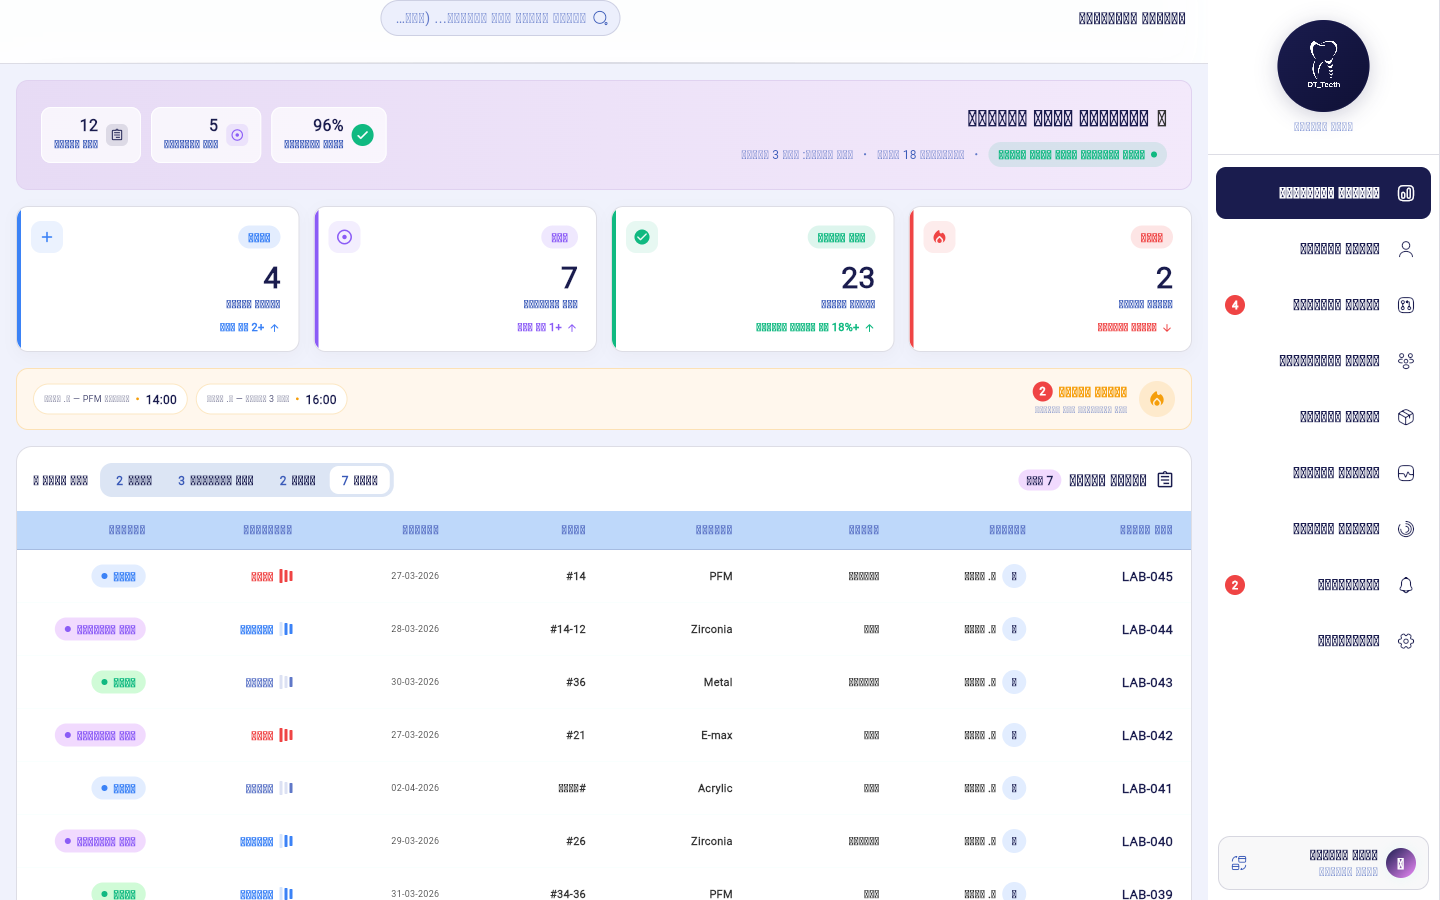
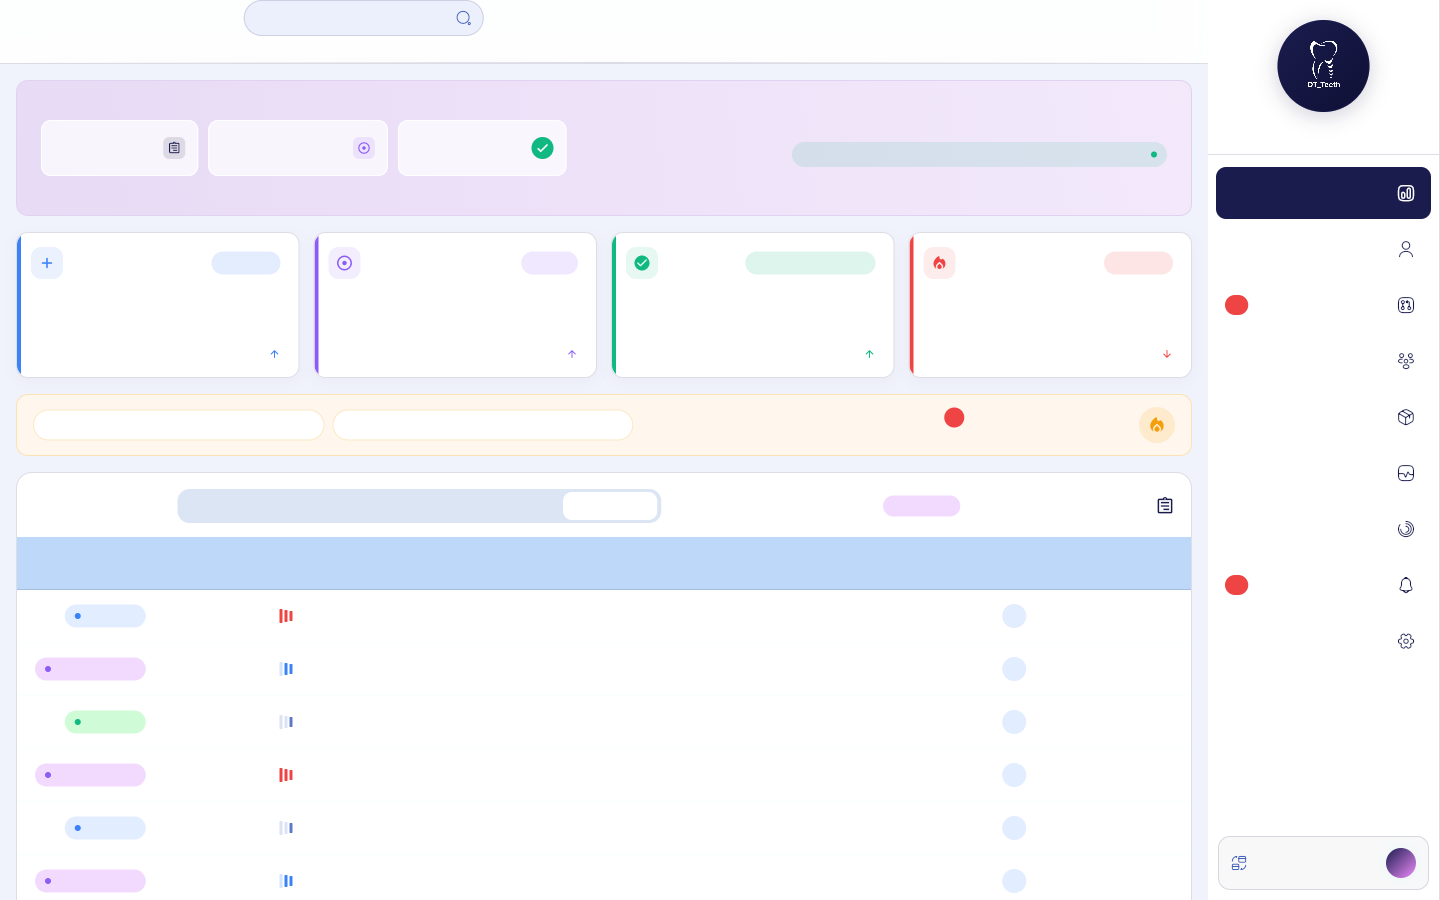
تنظيف مقاييس المدير: استبدال "نسبة الإنجاز" بعدد الطلبات الموصلة للطبيب في الواجهة الرئيسية، واستبدال مقاييس الوقت (وقت التنفيذ/الإنجاز بالوقت) في الملف الشخصي بعدادات طلبات — المدير يشرف على التسليم ولا يعمل الطلبات بيده

diff --git a/lib/features/profile/presentation/widgets/employee_profile_content.dart b/lib/features/profile/presentation/widgets/employee_profile_content.dart
@@ -34,6 +34,7 @@ import '../../domain/entities/employee_profile.dart';
 import '../../../../core/constants/app_urls.dart';
 import '../../../../core/utils/app_date.dart';
 import '../../../../shared/widgets/feedback/glass_toast.dart';
+import '../../../../shared/widgets/loading/app_shimmer_card.dart';
 import '../bloc/profile_cubit.dart';
 
 // ══════════════════════════════════════════════════════════════════════════
@@ -373,12 +374,15 @@ class _EmployeeProfileContentState extends State<EmployeeProfileContent> {
         // نعرض المحتوى فوراً ببيانات placeholder (_data) ونُحدّثه لمّا يرجع
         // الباك عبر الـ listener — بدون حجب الصفحة بـ spinner لانهائي لو
         // تأخّر/فشل طلب showProfile (شائع على الويب بسبب CORS).
-        return _buildContent(context);
+        return _buildContent(
+          context,
+          loading: state.status == ProfileStatus.loading,
+        );
       },
     );
   }
 
-  Widget _buildContent(BuildContext context) {
+  Widget _buildContent(BuildContext context, {required bool loading}) {
     return LayoutBuilder(builder: (context, c) {
       final isWide = c.maxWidth >= 900;
 
@@ -397,6 +401,7 @@ class _EmployeeProfileContentState extends State<EmployeeProfileContent> {
       final main = _MainColumn(
         data: _current,
         editing: _editing,
+        loading: loading,
       );
 
       if (isWide) {
@@ -977,10 +982,15 @@ class _MainColumn extends StatelessWidget {
   const _MainColumn({
     required this.data,
     required this.editing,
+    this.loading = false,
   });
 
   final _EmployeeData data;
   final bool editing;
+
+  /// هل ما زال طلب showProfile قيد التحميل؟ (تظهر shimmer placeholders
+  /// مكان أقسام الباك بدل ما تنطّ فجأة لاحقاً).
+  final bool loading;
 
   @override
   Widget build(BuildContext context) {
@@ -1039,6 +1049,16 @@ class _MainColumn extends StatelessWidget {
           ],
         ),
         // ── أقسام حقيقية من الباك (showProfile) ──────────────────────────
+        // أثناء التحميل: shimmer placeholders مكان الأقسام القادمة من الباك
+        // (الشهادات/الخبرات/الدورات/المهارات) بدل ما تظهر فجأة بعد الرد.
+        if (loading) ...[
+          const SizedBox(height: 18),
+          const AppShimmerCard(height: 140),
+          const SizedBox(height: 18),
+          const AppShimmerCard(height: 140),
+          const SizedBox(height: 18),
+          const AppShimmerCard(height: 100),
+        ],
         if (data.educations.isNotEmpty) ...[
           const SizedBox(height: 18),
           _RelationSection(
@@ -1415,8 +1435,9 @@ class _StatsRow extends StatelessWidget {
 
   @override
   Widget build(BuildContext context) {
-    // الترتيب في RTL: أول عنصر = أقصى اليمين. لمطابقة الموك أب
-    // (96% أقصى اليسار، 142 أقصى اليمين) نضع 142 أولاً ثم 2.4 ثم 96.
+    // قرار الفريق 2026-06-12: لا ساعات ولا "وقت تنفيذ" بملف المدير —
+    // المقاييس الزمنية تُستبدل بعدادات طلبات (مثل الواجهة الرئيسية).
+    // الترتيب في RTL: أول عنصر = أقصى اليمين.
     final stats = [
       _StatSpec(
         value: '142',
@@ -1428,20 +1449,20 @@ class _StatsRow extends StatelessWidget {
         bg: AppColors.statusSuccessBg,
       ),
       _StatSpec(
-        value: '2.4',
-        unit: 'س',
-        label: context.l10n.profileStatExecTime,
-        badge: context.l10n.profileBadgeAverage,
-        icon: Icons.schedule_rounded,
+        value: '5',
+        unit: '',
+        label: context.l10n.labHeroStatInProgress,
+        badge: context.l10n.labChipActive,
+        icon: Icons.adjust_rounded,
         accent: AppColors.statusProgress,
         bg: const Color(0xFFF4ECFB),
       ),
       _StatSpec(
-        value: '96',
-        unit: '%',
-        label: context.l10n.profileStatOnTime,
-        badge: '2%+',
-        icon: Icons.star_border_rounded,
+        value: '7',
+        unit: '',
+        label: context.l10n.labStatReadyOrders,
+        badge: context.l10n.profileBadgeThisMonth,
+        icon: Icons.inventory_2_outlined,
         accent: const Color(0xFF2E48B5),
         bg: const Color(0xFFEFF3FD),
       ),
@@ -2011,94 +2032,6 @@ class _FieldPillState extends State<_FieldPill> {
             ),
           ),
         ],
-      ),
-    );
-  }
-}
-
-// ══════════════════════════════════════════════════════════════════════════
-//                       حالات التحميل / الخطأ (الربط بالباك)
-// ══════════════════════════════════════════════════════════════════════════
-
-class _ProfileCenterLoader extends StatelessWidget {
-  const _ProfileCenterLoader();
-
-  @override
-  Widget build(BuildContext context) {
-    return const Center(
-      child: Padding(
-        padding: EdgeInsets.all(40),
-        child: SizedBox(
-          width: 34,
-          height: 34,
-          child: CircularProgressIndicator(
-            strokeWidth: 3,
-            valueColor: AlwaysStoppedAnimation(_Palette.accent),
-          ),
-        ),
-      ),
-    );
-  }
-}
-
-class _ProfileCenterError extends StatelessWidget {
-  const _ProfileCenterError({required this.message, required this.onRetry});
-
-  final String? message;
-  final VoidCallback onRetry;
-
-  @override
-  Widget build(BuildContext context) {
-    return Center(
-      child: Padding(
-        padding: const EdgeInsets.all(32),
-        child: Column(
-          mainAxisSize: MainAxisSize.min,
-          children: [
-            const Icon(Icons.cloud_off_rounded,
-                size: 44, color: AppColors.lightText4),
-            const SizedBox(height: 12),
-            Text(
-              message ?? context.l10n.profileLoadError,
-              textAlign: TextAlign.center,
-              style: const TextStyle(
-                fontFamily: AppTextStyles.fontFamily,
-                fontSize: 14,
-                fontWeight: FontWeight.w700,
-                color: AppColors.lightText2,
-              ),
-            ),
-            const SizedBox(height: 16),
-            InkWell(
-              onTap: onRetry,
-              borderRadius: BorderRadius.circular(AppSizes.radiusSM),
-              child: Container(
-                padding:
-                    const EdgeInsets.symmetric(horizontal: 18, vertical: 10),
-                decoration: BoxDecoration(
-                  color: _Palette.accent,
-                  borderRadius: BorderRadius.circular(AppSizes.radiusSM),
-                ),
-                child: Row(
-                  mainAxisSize: MainAxisSize.min,
-                  children: [
-                    const Icon(Icons.refresh_rounded, size: 16, color: Colors.white),
-                    const SizedBox(width: 6),
-                    Text(
-                      context.l10n.retry,
-                      style: const TextStyle(
-                        fontFamily: AppTextStyles.fontFamily,
-                        fontSize: 13,
-                        fontWeight: FontWeight.w800,
-                        color: Colors.white,
-                      ),
-                    ),
-                  ],
-                ),
-              ),
-            ),
-          ],
-        ),
       ),
     );
   }

diff --git a/lib/features/lab/presentation/pages/lab_technicians_page.dart b/lib/features/lab/presentation/pages/lab_technicians_page.dart
@@ -21,6 +21,8 @@ import '../../../../core/theme/app_text_styles.dart';
 import '../../../../shared/widgets/core/app_system_type.dart';
 import '../../../../shared/widgets/core/mock_user_data.dart';
 import '../../../../shared/widgets/layout/app_shell_layout.dart';
+import '../../../../shared/widgets/loading/app_shimmer_card.dart';
+import '../../../../shared/widgets/loading/app_shimmer_table.dart';
 import '../../data/mock/lab_dashboard_mock_data.dart';
 import '../../data/models/lab_technician.dart';
 import '../../domain/repositories/lab_repository.dart';
@@ -239,7 +241,36 @@ class _LabTechniciansPageState extends State<LabTechniciansPage> {
 
   Widget _buildBody(BuildContext context) {
     if (_loadingTechs) {
-      return const Center(child: CircularProgressIndicator());
+      // Skeleton فوري بدل spinner يحجب الصفحة — الصفحة تبيّن بنيتها
+      // فوراً حتى لو تأخّر الباك (أول طلب Laravel بيكون بطيء).
+      return SingleChildScrollView(
+        padding: const EdgeInsets.all(AppSizes.spaceLG),
+        child: Column(
+          crossAxisAlignment: CrossAxisAlignment.stretch,
+          children: [
+            Row(
+              children: const [
+                Expanded(child: AppShimmerCard(height: 96)),
+                SizedBox(width: AppSizes.spaceMD),
+                Expanded(child: AppShimmerCard(height: 96)),
+                SizedBox(width: AppSizes.spaceMD),
+                Expanded(child: AppShimmerCard(height: 96)),
+              ],
+            ),
+            const SizedBox(height: AppSizes.spaceLG),
+            const AppShimmerTable(
+              columns: [
+                AppShimmerTableColumn.wide,
+                AppShimmerTableColumn.text,
+                AppShimmerTableColumn.text,
+                AppShimmerTableColumn.badge,
+                AppShimmerTableColumn.actions,
+              ],
+              rowCount: 6,
+            ),
+          ],
+        ),
+      );
     }
     if (_techsError != null) {
       return _TechsError(message: _techsError!, onRetry: _loadTechnicians);

diff --git a/lib/features/lab/presentation/pages/lab_dashboard_page.dart b/lib/features/lab/presentation/pages/lab_dashboard_page.dart
@@ -108,10 +108,12 @@ class _LabDashboardBody extends StatelessWidget {
         AppHeroMeta('آخر تحديث: منذ 3 دقيقة', faded: true),
       ],
       stats: [
+        // عدد الطلبات الموصّلة للطبيب — مقياس المدير (قرار الفريق:
+        // "نسبة الإنجاز" باسم المدير غلط، يُستبدل بعدد الطلبات المنجزة).
         AppHeroMiniStat(
-          icon: Icons.check_circle_outline_rounded,
-          value: '96%',
-          label: l10n.labHeroStatCompletionRate,
+          icon: Icons.local_shipping_outlined,
+          value: '31',
+          label: l10n.labHeroStatDelivered,
           accent: AppColors.statusSuccess,
           checkmark: true,
         ),

diff --git a/lib/features/lab/data/mock/lab_dashboard_mock_data.dart b/lib/features/lab/data/mock/lab_dashboard_mock_data.dart
@@ -67,7 +67,8 @@ class LabDashboardMockData {
   // Hero stats
   static const int todayOrdersCount = 12;
   static const int inProgressCount = 5;
-  static const int completionRate = 96;
+  // الطلبات الموصّلة للطبيب (تم التوصيل) — مقياس المدير بدل "نسبة الإنجاز".
+  static const int deliveredCount = 31;
 
   // Stat card values
   static const int newOrdersCount = 4;
